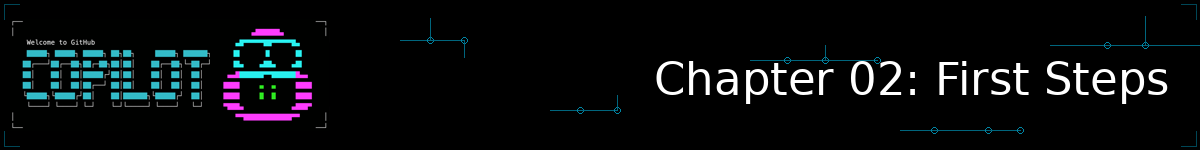
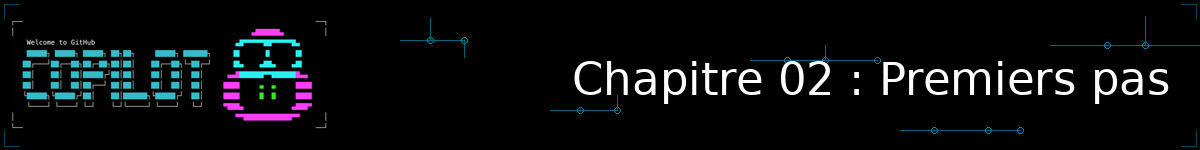
Traduire les titres des chapitres dans les images d'en-tête
Les titres de chapitre bakés dans chapter-header.png étaient encore en
anglais alors que le reste du cours (frontmatter, texte alternatif,
contenu) est déjà en français.

Changed region(s): [[0.4625, 0.4, 0.9867, 0.6933]]

diff --git a/.github/scripts/generate-chapter-headers.py b/.github/scripts/generate-chapter-headers.py
@@ -10,15 +10,15 @@ import sys
 
 # Configuration
 CHAPTERS = {
-    "00-modern-terminal-stack": "Chapter 00: Modern Terminal Stack",
-    "01-quick-start": "Chapter 01: Quick Start",
-    "02-setup-and-first-steps": "Chapter 02: First Steps",
-    "03-context-conversations": "Chapter 03: Context and Conversations",
-    "04-development-workflows": "Chapter 04: Development Workflows",
-    "05-agents-custom-instructions": "Chapter 05: Agents and Custom Instructions",
-    "06-skills": "Chapter 06: Skills System",
-    "07-mcp-servers": "Chapter 07: MCP Servers",
-    "08-putting-it-together": "Chapter 08: Putting It All Together",
+    "00-modern-terminal-stack": "Chapitre 00 : Équipez votre terminal",
+    "01-quick-start": "Chapitre 01 : Démarrage rapide",
+    "02-setup-and-first-steps": "Chapitre 02 : Premiers pas",
+    "03-context-conversations": "Chapitre 03 : Contexte et conversations",
+    "04-development-workflows": "Chapitre 04 : Flux de travail de développement",
+    "05-agents-custom-instructions": "Chapitre 05 : Agents et instructions personnalisées",
+    "06-skills": "Chapitre 06 : Système de Skills",
+    "07-mcp-servers": "Chapitre 07 : Serveurs MCP",
+    "08-putting-it-together": "Chapitre 08 : Tout assembler",
 }
 
 # Get project root (parent of scripts folder)
